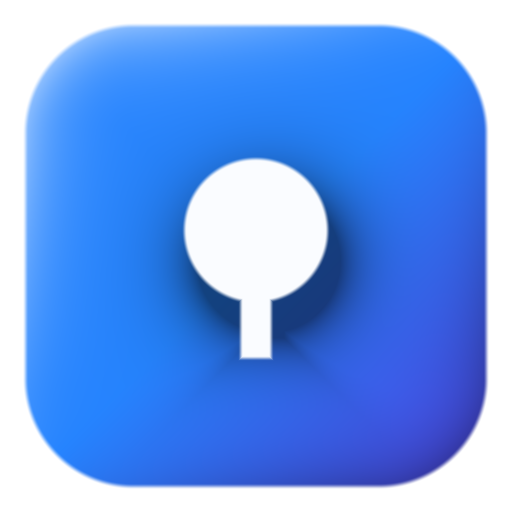
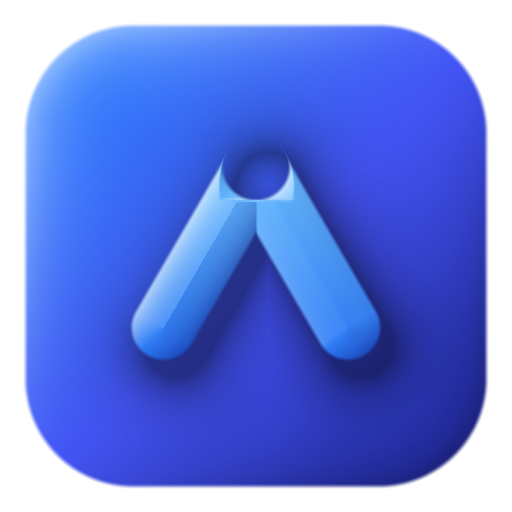
Design: 보조 가이드라인 및 텍스트를 제거한 순수 3D 심볼 기반 앱 아이콘 탑재

diff --git a/index.html b/index.html
@@ -1402,12 +1402,12 @@
   
     
 
-<!-- === 3D_APP_ICON_LINKS_START === -->
-    <link rel="apple-touch-icon" sizes="180x180" href="/apple-touch-icon.png?v=3">
-    <link rel="icon" type="image/png" sizes="192x192" href="/icon-192.png?v=3">
-    <link rel="icon" type="image/png" sizes="512x512" href="/icon-512.png?v=3">
-    <link rel="shortcut icon" type="image/png" href="/favicon.png?v=3">
-    <!-- === 3D_APP_ICON_LINKS_END === -->
+<!-- === V7_APP_ICON_LINKS_START === -->
+    <link rel="apple-touch-icon" sizes="180x180" href="/apple-touch-icon.png?v=7">
+    <link rel="icon" type="image/png" sizes="192x192" href="/icon-192.png?v=7">
+    <link rel="icon" type="image/png" sizes="512x512" href="/icon-512.png?v=7">
+    <link rel="shortcut icon" type="image/png" href="/favicon.png?v=7">
+    <!-- === V7_APP_ICON_LINKS_END === -->
 </head>
   <body>
     <aside id="side">
